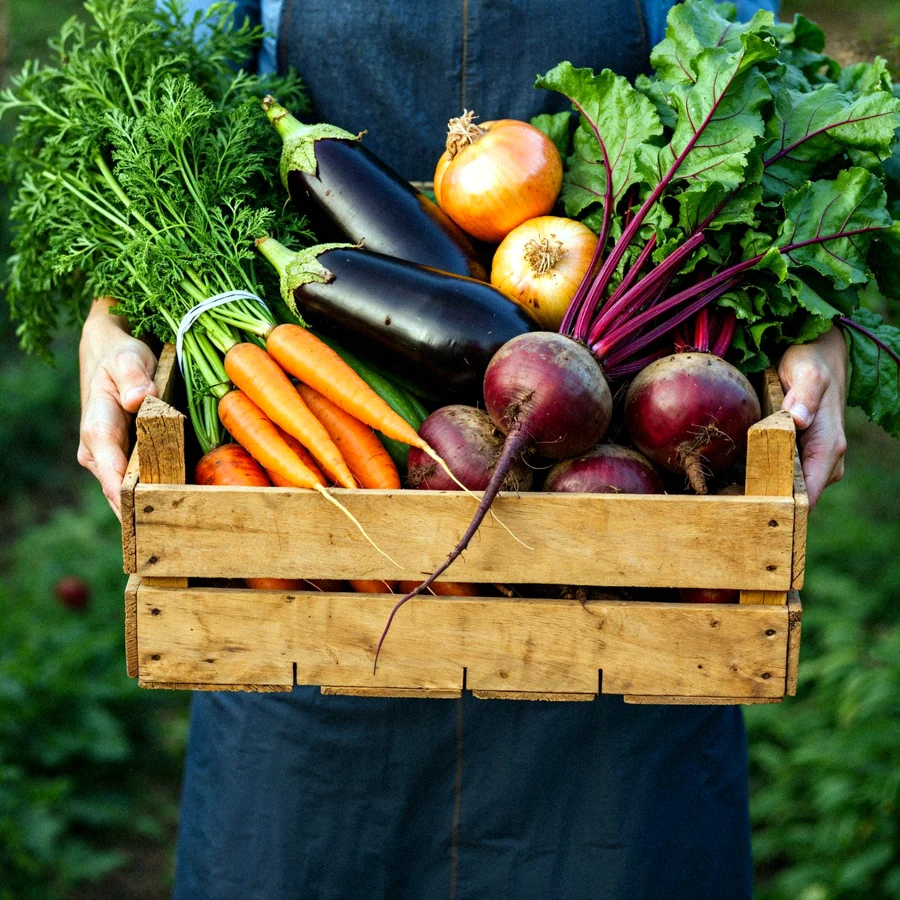
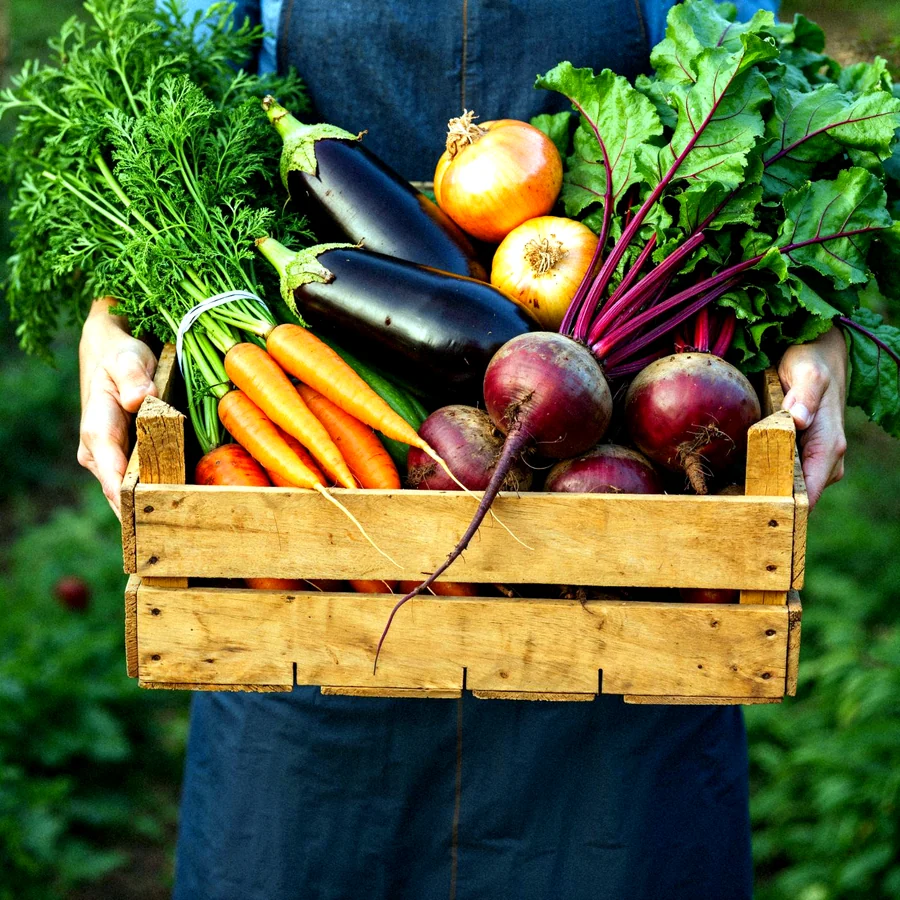
Galerie : légende « Photos d’illustration », images retouchées comme les photos de la ferme

diff --git a/src/components/FermesIdeales.tsx b/src/components/FermesIdeales.tsx
@@ -381,7 +381,7 @@ export default function FermesIdeales() {
                 height={900}
                 sizes="(max-width: 640px) 100vw, 50vw"
               />
-              <figcaption className="fi-legende">Image d’illustration, non prise sur la ferme.</figcaption>
+              <figcaption className="fi-legende">Photos d’illustration</figcaption>
             </figure>
             <figure className="fi-carre">
               <Image
@@ -391,7 +391,7 @@ export default function FermesIdeales() {
                 height={900}
                 sizes="(max-width: 640px) 100vw, 50vw"
               />
-              <figcaption className="fi-legende">Image d’illustration, non prise sur la ferme.</figcaption>
+              <figcaption className="fi-legende">Photos d’illustration</figcaption>
             </figure>
           </div>
         </div>
